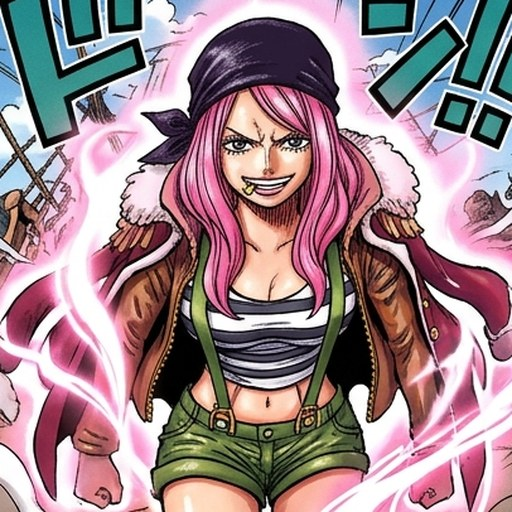
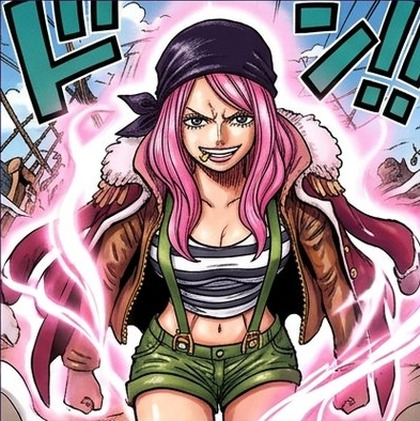
fix(ui): re-crop all character portraits with full headroom and fix covered nav buttons

diff --git a/public/js/i18n.js b/public/js/i18n.js
@@ -635,59 +635,139 @@
 
   var V3_UI_PATCH = {
     en: {
+      tabCharacters: '🏴☠ Characters (38)',
+      tabWorld: '🌍 3D World',
+      tabMaps: '🗺 Maps',
       tabShips: '⛵ Ships',
+      tabFruits: '🍇 Devil Fruits',
+      tabCrew: '⚓ Crew Builder',
+      tabTimeline: '🧭 Timeline',
+      tabLore: '📜 Lore & Quiz',
       spoilerPreTimeskip: '🌊 Pre-Timeskip (Ep 1–516)',
       spoilerEgghead: '🔥 Egghead (Latest)'
     },
     es: {
-      tabShips: '⛵ Astillero 3D (Sunny y Merry)',
+      brandTitle: 'ONE PIECE ATLAS',
+      brandSubtitle: 'Personajes, Recompensas Wanted, Vivre Cards y Mundo 3D',
+      spoilerLabel: '🛡 Era:',
+      tabCharacters: '🏴☠ Personajes (38)',
+      tabWorld: '🌍 Mundo 3D',
+      tabMaps: '🗺 Mapas',
+      tabShips: '⛵ Barcos',
+      tabFruits: '🍇 Frutas',
+      tabCrew: '⚓ Tripulación',
+      tabTimeline: '🧭 Historia',
+      tabLore: '📜 Lore y Quiz',
       spoilerPreTimeskip: '🌊 Pre-Timeskip (Ep 1–516)',
-      spoilerEgghead: '🔥 Egghead y Elbaph (Ep 1086+)'
+      spoilerEgghead: '🔥 Egghead y Elbaph'
     },
     zh: {
-      tabShips: '⛵ 3D 船坞剖面图 (桑尼号)',
+      tabCharacters: '🏴☠ 角色 (38)',
+      tabWorld: '🌍 3D 世界',
+      tabMaps: '🗺 海图',
+      tabShips: '⛵ 船坞',
+      tabFruits: '🍇 恶魔果实',
+      tabCrew: '⚓ 组建船队',
+      tabTimeline: '🧭 时间线',
+      tabLore: '📜 设定与问答',
       spoilerPreTimeskip: '🌊 顶上战争前 (第1–516集)',
-      spoilerEgghead: '🔥 蛋头岛与艾尔巴夫篇 (1086集+)'
+      spoilerEgghead: '🔥 蛋头岛与艾尔巴夫'
     },
     yue: {
-      tabShips: '⛵ 3D 船塢剖面圖 (烈陽號)',
+      tabCharacters: '🏴☠ 角色 (38)',
+      tabWorld: '🌍 3D 世界',
+      tabMaps: '🗺 海圖',
+      tabShips: '⛵ 船塢',
+      tabFruits: '🍇 惡魔果實',
+      tabCrew: '⚓ 組建船隊',
+      tabTimeline: '🧭 時間線',
+      tabLore: '📜 設定與問答',
       spoilerPreTimeskip: '🌊 頂上戰爭前 (第1–516集)',
-      spoilerEgghead: '🔥 蛋頭島與艾爾巴夫篇 (1086集+)'
+      spoilerEgghead: '🔥 蛋頭島與艾爾巴夫'
     },
     ja: {
-      tabShips: '⛵ 3D 造船ドック (サニー号)',
+      tabCharacters: '🏴☠ キャラ (38)',
+      tabWorld: '🌍 3D 世界',
+      tabMaps: '🗺 海図',
+      tabShips: '⛵ 船ドック',
+      tabFruits: '🍇 悪魔の実',
+      tabCrew: '⚓ 一味編成',
+      tabTimeline: '🧭 年表',
+      tabLore: '📜 考察＆クイズ',
       spoilerPreTimeskip: '🌊 マリンフォードまで (1〜516話)',
-      spoilerEgghead: '🔥 エッグヘッド＆エルバフ編 (1086話〜)'
+      spoilerEgghead: '🔥 エッグヘッド＆エルバフ'
     },
     ko: {
-      tabShips: '⛵ 3D 조선소 도크 (써니호)',
+      tabCharacters: '🏴☠ 캐릭터 (38)',
+      tabWorld: '🌍 3D 월드',
+      tabMaps: '🗺 지도',
+      tabShips: '⛵ 선박 도크',
+      tabFruits: '🍇 악마의 열매',
+      tabCrew: '⚓ 해적단 편성',
+      tabTimeline: '🧭 타임라인',
+      tabLore: '📜 세계관 & 퀴즈',
       spoilerPreTimeskip: '🌊 정상전쟁까지 (1~516화)',
-      spoilerEgghead: '🔥 에그헤드 & 엘바프 (1086화+)'
+      spoilerEgghead: '🔥 에그헤드 & 엘바프'
     },
     pt: {
-      tabShips: '⛵ Estaleiro 3D (Sunny & Merry)',
+      tabCharacters: '🏴☠ Personagens (38)',
+      tabWorld: '🌍 Mundo 3D',
+      tabMaps: '🗺 Mapas',
+      tabShips: '⛵ Navios',
+      tabFruits: '🍇 Akuma no Mi',
+      tabCrew: '⚓ Tripulação',
+      tabTimeline: '🧭 História',
+      tabLore: '📜 Lore e Quiz',
       spoilerPreTimeskip: '🌊 Pré-Timeskip (Ep 1–516)',
-      spoilerEgghead: '🔥 Egghead e Elbaph (Ep 1086+)'
+      spoilerEgghead: '🔥 Egghead e Elbaph'
     },
     fr: {
-      tabShips: '⛵ Chantier Naval 3D (Sunny)',
+      tabCharacters: '🏴☠ Personnages (38)',
+      tabWorld: '🌍 Monde 3D',
+      tabMaps: '🗺 Cartes',
+      tabShips: '⛵ Navires',
+      tabFruits: '🍇 Fruits du Démon',
+      tabCrew: '⚓ Équipage',
+      tabTimeline: '🧭 Chronologie',
+      tabLore: '📜 Lore & Quiz',
       spoilerPreTimeskip: '🌊 Pré-Ellipse (Ép 1–516)',
-      spoilerEgghead: '🔥 Egghead & Elbaph (Ép 1086+)'
+      spoilerEgghead: '🔥 Egghead & Elbaph'
     },
     it: {
-      tabShips: '⛵ Cantiere Navale 3D (Sunny)',
+      tabCharacters: '🏴☠ Personaggi (38)',
+      tabWorld: '🌍 Mondo 3D',
+      tabMaps: '🗺 Mappe',
+      tabShips: '⛵ Navi',
+      tabFruits: '🍇 Frutti',
+      tabCrew: '⚓ Ciurma',
+      tabTimeline: '🧭 Cronologia',
+      tabLore: '📜 Lore e Quiz',
       spoilerPreTimeskip: '🌊 Pre-Timeskip (Ep 1–516)',
-      spoilerEgghead: '🔥 Egghead ed Elbaph (Ep 1086+)'
+      spoilerEgghead: '🔥 Egghead ed Elbaph'
     },
     de: {
-      tabShips: '⛵ 3D-Schiffswerft (Sunny)',
+      tabCharacters: '🏴☠ Charaktere (38)',
+      tabWorld: '🌍 3D-Welt',
+      tabMaps: '🗺 Karten',
+      tabShips: '⛵ Schiffe',
+      tabFruits: '🍇 Teufelsfrüchte',
+      tabCrew: '⚓ Crew-Planer',
+      tabTimeline: '🧭 Zeitlinie',
+      tabLore: '📜 Lore & Quiz',
       spoilerPreTimeskip: '🌊 Vor dem Zeitsprung (Ep 1–516)',
-      spoilerEgghead: '🔥 Egghead & Elbaph (Ep 1086+)'
+      spoilerEgghead: '🔥 Egghead & Elbaph'
     },
     ar: {
-      tabShips: '⛵ حوض السفن ثلاثي الأبعاد (ساني)',
+      tabCharacters: '🏴☠ الشخصيات (38)',
+      tabWorld: '🌍 عالم 3D',
+      tabMaps: '🗺 الخرائط',
+      tabShips: '⛵ السفن',
+      tabFruits: '🍇 فواكه الشيطان',
+      tabCrew: '⚓ الطاقم',
+      tabTimeline: '🧭 الأحداث',
+      tabLore: '📜 الأسرار والاختبار',
       spoilerPreTimeskip: '🌊 ما قبل السنتين (ح 1–516)',
-      spoilerEgghead: '🔥 إيغهيد وإلباف (ح 1086+)'
+      spoilerEgghead: '🔥 إيغهيد وإلباف'
     }
   };
 

diff --git a/public/styles/base.css b/public/styles/base.css
@@ -35,7 +35,7 @@
 
 html,
 body {
-  height: 100%;
+  min-height: 100%;
   background-color: var(--bg-abyss);
   color: var(--text-primary);
   font-family: -apple-system, BlinkMacSystemFont, "Segoe UI", Roboto, "Helvetica Neue", Arial, sans-serif;
@@ -60,6 +60,9 @@ canvas:focus-visible {
 
 /* Header & Top Controls */
 .portal-header {
+  flex-shrink: 0;
+  position: relative;
+  z-index: 70;
   display: flex;
   flex-wrap: wrap;
   align-items: center;
@@ -168,17 +171,35 @@ canvas:focus-visible {
   width: 100%;
 }
 
-/* Top Navigation Tabs */
+/* Top Navigation Tabs — flex-shrink: 0 prevents vertical collapse! */
 .portal-nav {
+  flex-shrink: 0;
+  position: relative;
+  z-index: 40;
   display: flex;
+  flex-wrap: wrap;
+  align-items: center;
   gap: 0.5rem;
-  padding: 0.625rem 1.25rem;
+  padding: 0.65rem 1.25rem;
+  min-height: 3.35rem;
   background-color: var(--bg-surface);
   border-bottom: 1px solid var(--border-default);
-  overflow-x: auto;
+}
+
+@media (max-width: 767px) {
+  .portal-nav {
+    flex-wrap: nowrap;
+    overflow-x: auto;
+    overflow-y: hidden;
+    -webkit-overflow-scrolling: touch;
+  }
 }
 
 .nav-tab-btn {
+  flex-shrink: 0;
+  display: inline-flex;
+  align-items: center;
+  justify-content: center;
   background-color: var(--bg-elevated);
   color: var(--text-secondary);
   border: 1px solid var(--border-default);
@@ -186,6 +207,7 @@ canvas:focus-visible {
   padding: 0.5rem 0.85rem;
   font-size: 0.84rem;
   font-weight: 700;
+  line-height: 1.25;
   white-space: nowrap;
   cursor: pointer;
   transition: background-color 0.15s ease, color 0.15s ease, border-color 0.15s ease;
@@ -210,7 +232,7 @@ canvas:focus-visible {
 
 /* Main Split Workspace */
 .portal-main {
-  flex: 1;
+  flex: 1 0 auto;
   display: grid;
   grid-template-columns: 1fr;
   gap: 1rem;
@@ -221,9 +243,9 @@ canvas:focus-visible {
 }
 
 @media (min-width: 1024px) {
-  .portal-main {
+  .portal-main[data-layout="split"] {
     grid-template-columns: minmax(420px, 1.05fr) minmax(460px, 1fr);
-    height: calc(100vh - 122px);
+    height: calc(100vh - 126px);
     overflow: hidden;
   }
 }
@@ -544,7 +566,7 @@ summary:focus-visible {
   max-width: 1460px;
   height: auto;
   overflow: visible;
-  padding: 1.25rem 1.5rem 2.5rem;
+  padding: 1.25rem 1.5rem 6.5rem;
 }
 
 .portal-main[data-layout="full"] .inspector-section {

diff --git a/public/index.html b/public/index.html
@@ -8,8 +8,8 @@
     content="default-src 'self'; script-src 'self' https://www.googletagmanager.com; style-src 'self'; img-src 'self' data: https://www.google-analytics.com https://www.googletagmanager.com; connect-src 'self' https://www.google-analytics.com https://analytics.google.com https://region1.google-analytics.com https://www.googletagmanager.com; object-src 'none'; base-uri 'self';"
   />
   <title>Grand Line 3D — Interactive One Piece World, Manga Maps, Timeline, Crew Builder &amp; Characters</title>
-  <link rel="stylesheet" href="/styles/base.css" />
-  <link rel="stylesheet" href="/styles/components.css" />
+  <link rel="stylesheet" href="/styles/base.css?v=4" />
+  <link rel="stylesheet" href="/styles/components.css?v=4" />
 </head>
 <body>
   <header class="portal-header">
@@ -217,18 +217,18 @@
     </div>
   </aside>
 
-  <script src="/js/i18n.js"></script>
-  <script src="/js/analytics.js"></script>
-  <script src="/js/data/maps-and-world.js"></script>
-  <script src="/js/data/characters.js"></script>
-  <script src="/js/data/fruits-and-lore.js"></script>
-  <script src="/js/data/ships.js"></script>
-  <script src="/js/data/index.js"></script>
-  <script src="/js/sound.js"></script>
-  <script src="/js/engine/islands3d.js"></script>
-  <script src="/js/engine/globe3d.js"></script>
-  <script src="/js/ui/dom.js"></script>
-  <script src="/js/ui/crew-builder.js"></script>
-  <script src="/js/app.js"></script>
+  <script src="/js/i18n.js?v=4"></script>
+  <script src="/js/analytics.js?v=4"></script>
+  <script src="/js/data/maps-and-world.js?v=4"></script>
+  <script src="/js/data/characters.js?v=4"></script>
+  <script src="/js/data/fruits-and-lore.js?v=4"></script>
+  <script src="/js/data/ships.js?v=4"></script>
+  <script src="/js/data/index.js?v=4"></script>
+  <script src="/js/sound.js?v=4"></script>
+  <script src="/js/engine/islands3d.js?v=4"></script>
+  <script src="/js/engine/globe3d.js?v=4"></script>
+  <script src="/js/ui/dom.js?v=4"></script>
+  <script src="/js/ui/crew-builder.js?v=4"></script>
+  <script src="/js/app.js?v=4"></script>
 </body>
 </html>

diff --git a/tests/portal.test.js b/tests/portal.test.js
@@ -375,5 +375,19 @@ test('11-Language i18n (with V3 Shipwright & Egghead labels), Signature Laugh Au
   const baseCss = fs.readFileSync(path.join(PUBLIC_DIR, 'styles', 'base.css'), 'utf8');
   assert.ok(baseCss.includes('html[data-theme="light"]'), 'Expected Light Theme CSS rules in base.css');
   assert.ok(baseCss.includes('.portal-main[data-layout="full"]'), 'Expected full-width layout CSS in base.css');
+  assert.ok(
+    /\.portal-nav\s*\{[\s\S]*?flex-shrink:\s*0/.test(baseCss),
+    'Expected .portal-nav to enforce flex-shrink: 0 so tab buttons never get covered/collapsed'
+  );
+
+  const componentsCss = fs.readFileSync(path.join(PUBLIC_DIR, 'styles', 'components.css'), 'utf8');
+  assert.ok(
+    /\.wanted-portrait-img\s*\{[\s\S]*?object-position:\s*center top/.test(componentsCss),
+    'Expected .wanted-portrait-img to anchor object-position: center top'
+  );
+  assert.ok(
+    /\.char-card-img\s*\{[\s\S]*?object-position:\s*center top/.test(componentsCss),
+    'Expected .char-card-img to anchor object-position: center top'
+  );
 });
 

diff --git a/public/styles/components.css b/public/styles/components.css
@@ -703,8 +703,7 @@
 
 .wanted-photo-box {
   width: 100%;
-  aspect-ratio: 1 / 1;
-  max-height: 240px;
+  aspect-ratio: 4 / 4.3;
   background-color: #1e1b18;
   border: 3px solid #451a03;
   border-radius: 0.25rem;
@@ -718,6 +717,8 @@
   width: 100%;
   height: 100%;
   object-fit: cover;
+  object-position: center top;
+  display: block;
 }
 
 .wanted-dead-or-alive {
@@ -1568,7 +1569,7 @@ html[data-theme="light"] .filter-pill-btn.active {
 .char-card-img-wrap {
   position: relative;
   width: 100%;
-  aspect-ratio: 1 / 1;
+  aspect-ratio: 4 / 4.4;
   background-color: var(--bg-elevated);
   overflow: hidden;
 }
@@ -1577,8 +1578,16 @@ html[data-theme="light"] .filter-pill-btn.active {
   width: 100%;
   height: 100%;
   object-fit: cover;
-  object-position: center 16%;
+  object-position: center top;
   display: block;
+}
+
+.pill-avatar,
+.island-hero-portrait,
+.roster-avatar-img,
+.crew-deck-avatar,
+.clash-portrait-img {
+  object-position: 50% 8%;
 }
 
 .char-card-pwr-tag {

diff --git a/public/js/ui/dom.js b/public/js/ui/dom.js
@@ -23,7 +23,13 @@
     if (opts.placeholder) node.placeholder = opts.placeholder;
     if (opts.disabled) node.disabled = Boolean(opts.disabled);
     if (opts.selected) node.selected = Boolean(opts.selected);
-    if (opts.src) node.src = opts.src;
+    if (opts.src) {
+      const rawSrc = String(opts.src);
+      node.src =
+        rawSrc.startsWith('/assets/characters/') && !rawSrc.includes('?')
+          ? `${rawSrc}?v=4`
+          : rawSrc;
+    }
     if (opts.alt !== undefined) node.alt = opts.alt;
     if (opts.loading) node.loading = opts.loading;
     if (opts.title) node.title = opts.title;

diff --git a/public/js/engine/globe3d.js b/public/js/engine/globe3d.js
@@ -166,12 +166,12 @@
       (data.characters || []).forEach((ch) => {
         if (ch.image) {
           const img = new Image();
-          img.src = ch.image;
+          img.src = ch.image.includes('?') ? ch.image : `${ch.image}?v=4`;
           this.charImages[ch.id] = img;
         }
         if (ch.altImage) {
           const altImg = new Image();
-          altImg.src = ch.altImage;
+          altImg.src = ch.altImage.includes('?') ? ch.altImage : `${ch.altImage}?v=4`;
           this.charImages[ch.id + '-alt'] = altImg;
         }
       });
